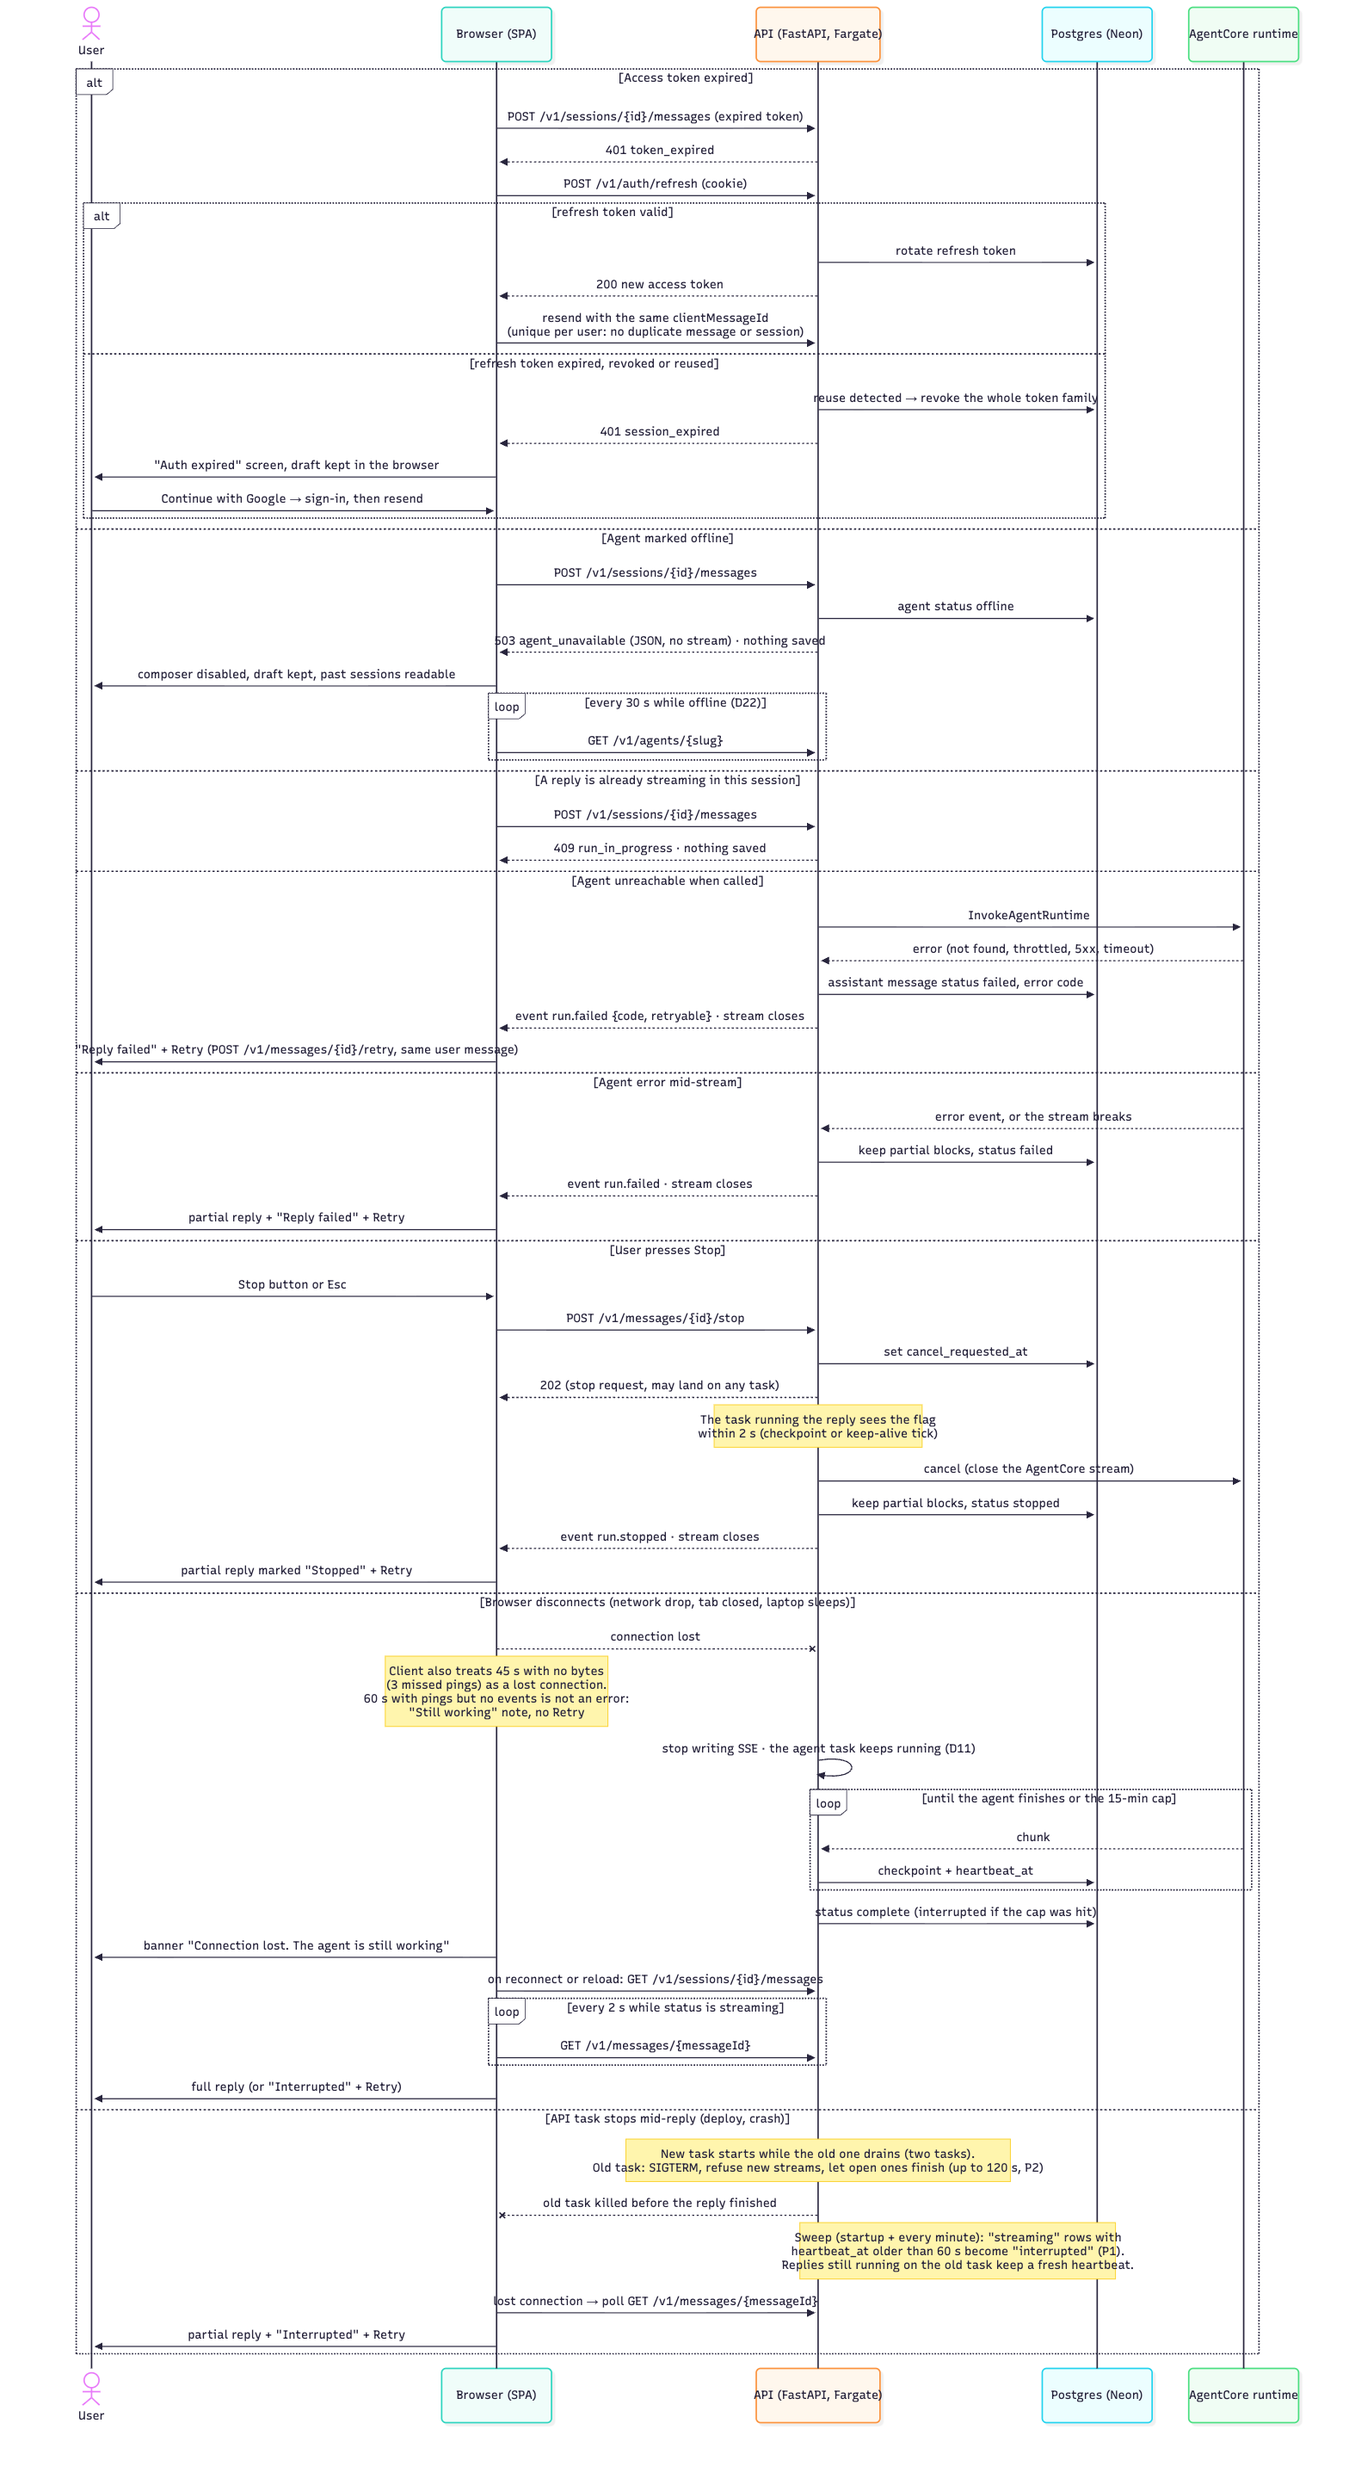
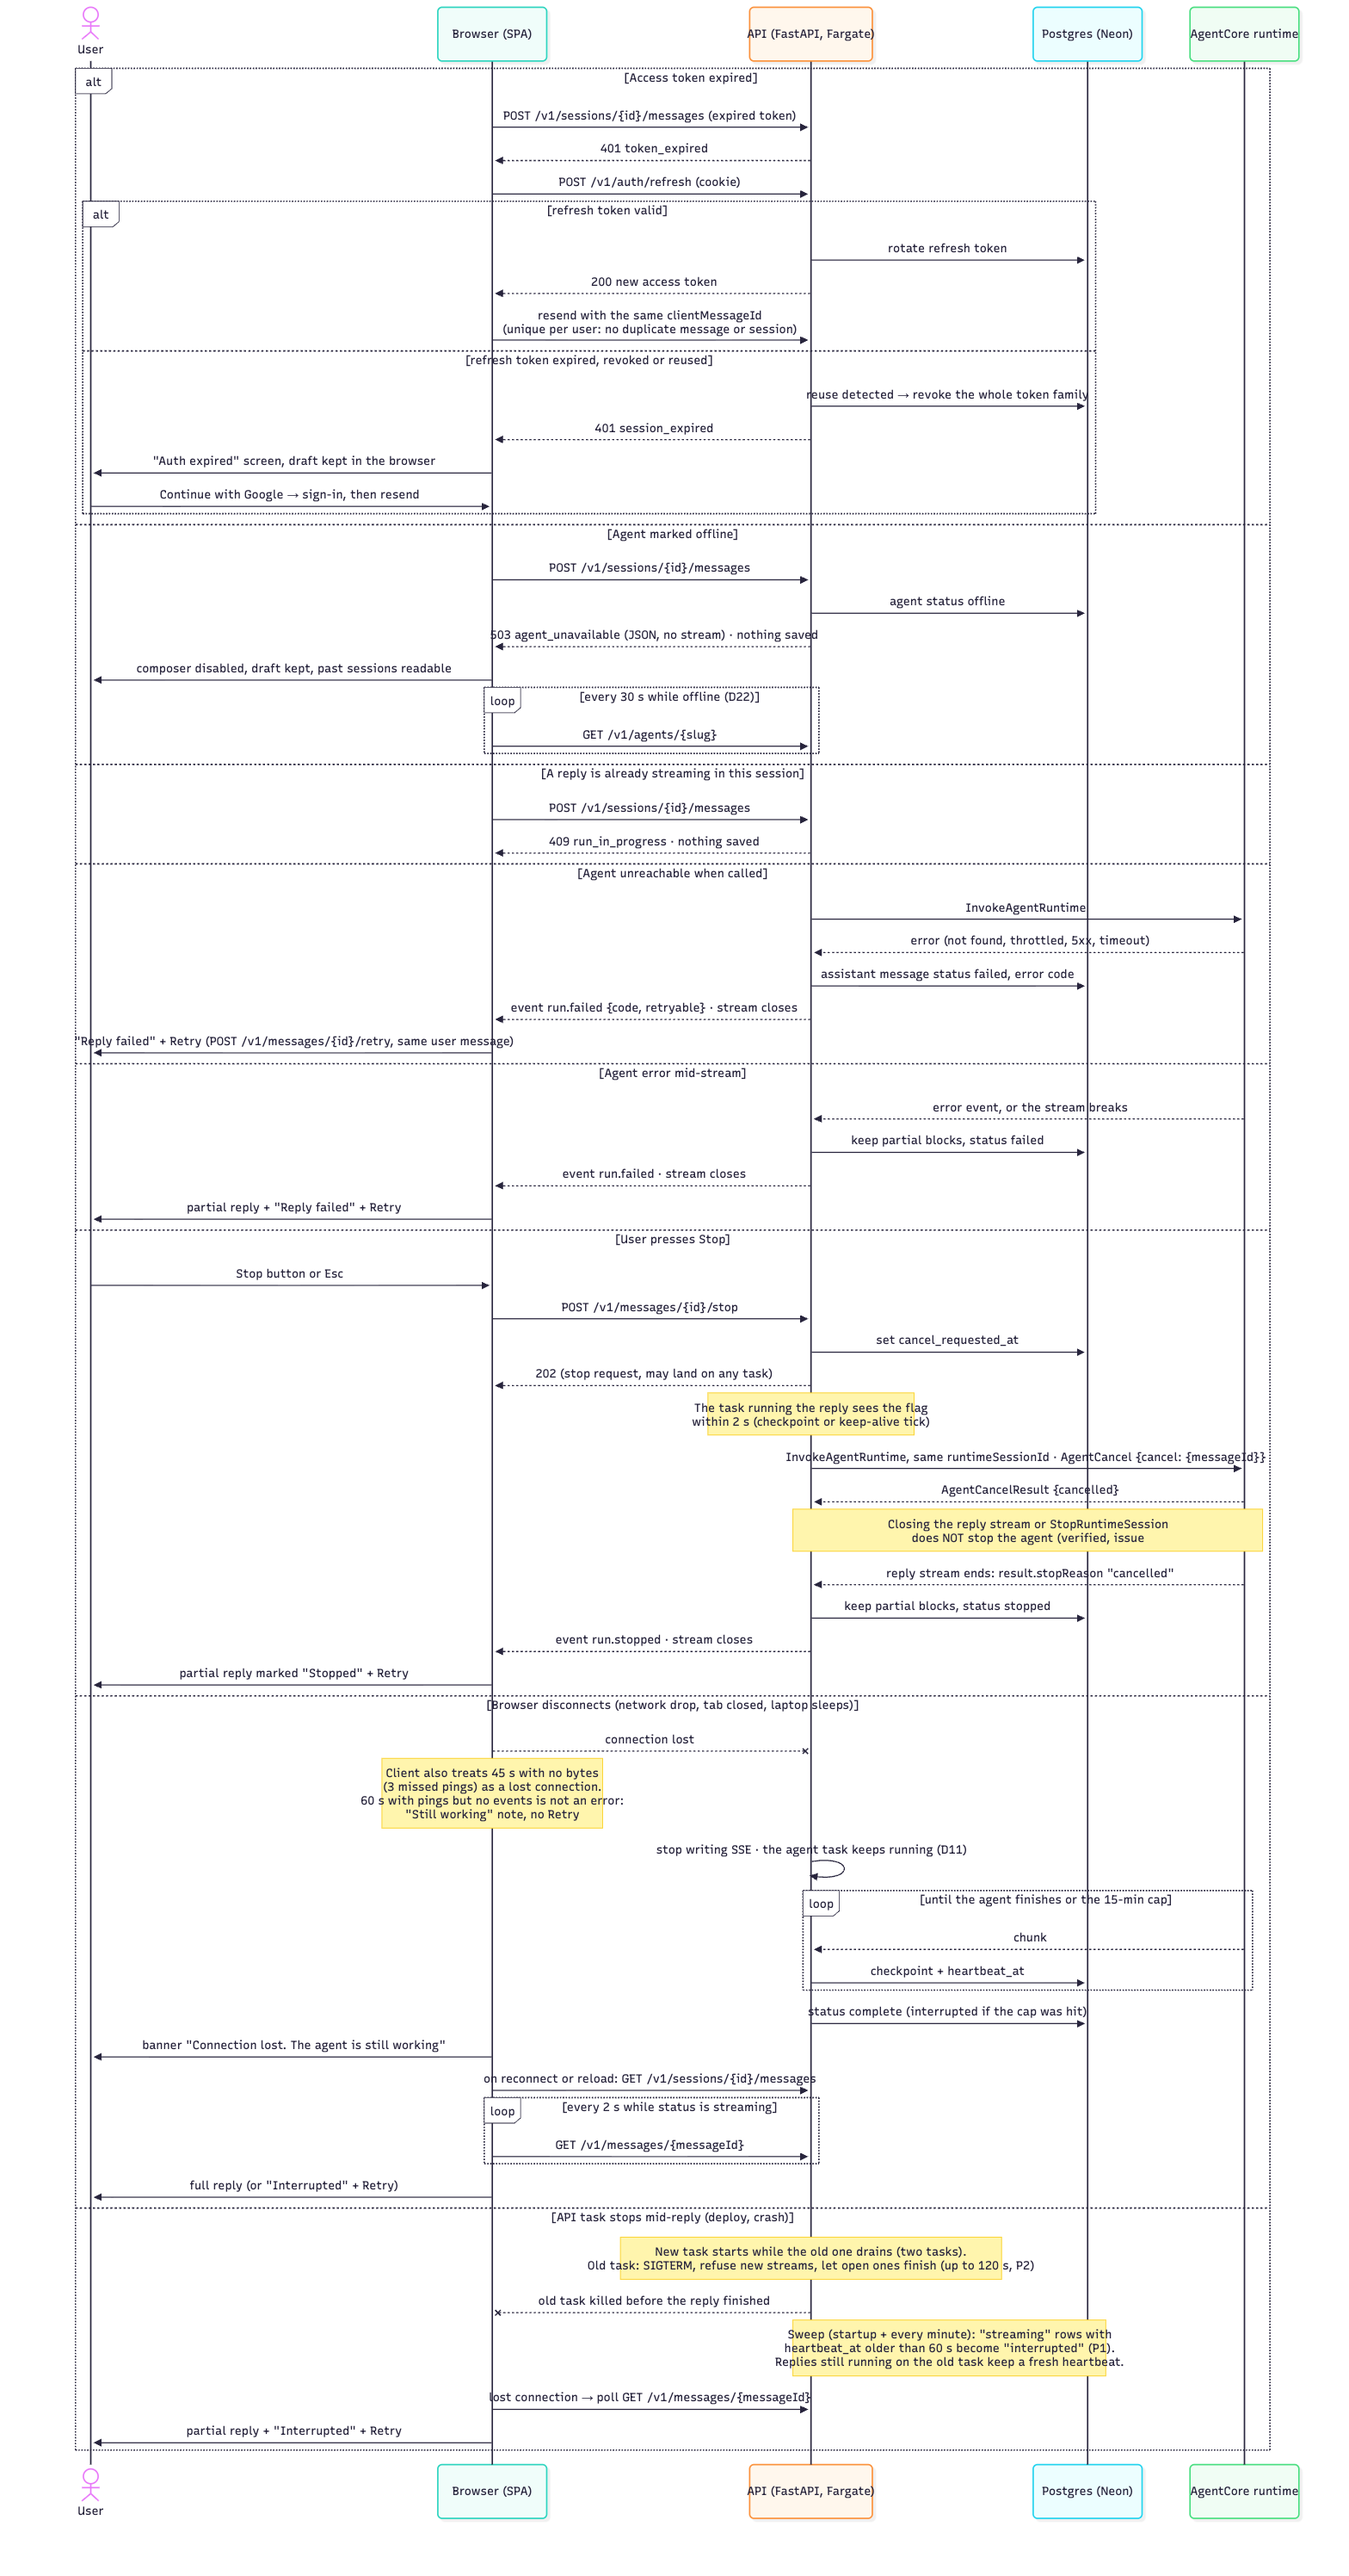
Describe Stop as a cancel invocation in P4 and the failure diagram
The failures diagram still showed Stop as closing the AgentCore stream,
which issue #3 showed doesn't stop the agent. It now sends AgentCancel
on the same runtime session and waits for stopReason "cancelled"; P4
names the mechanism.

diff --git a/docs/ARCHITECTURE.md b/docs/ARCHITECTURE.md
@@ -203,7 +203,7 @@ These refine D1–D15 and are binding for the steps that follow.
 
 **P3. v1 has no stream resume; reload is the recovery.** `PRODUCT_PLAN.md` F08 mentions resuming from `Last-Event-ID`. With one task and no event buffer that isn't cheap. Proposal: events carry ids from day one (so resume can be added later), but in v1 a dropped stream means the client reloads the message from Postgres. Because the agent keeps running after a disconnect (D11), the client polls the message until its status leaves `streaming`, then renders it; Retry is offered for `stopped`, `failed` and `interrupted` (amended 2026-09-29; the design and `SEND_MESSAGE.md` table already allowed Retry after Stop). There is no "agent silent for 60 s" error: a long silence shows a soft "still working" note, because the run may well finish.
 
-**P4. Stop is an explicit request, not just a closed connection.** The client can't distinguish its own abort from a network drop, and neither can the server. Proposal: `POST /v1/messages/{id}/stop` (the run id is the assistant message id) cancels the agent call and saves `stopped`; the client also aborts the fetch. A plain disconnect does not cancel (D11). The stop request sets `messages.cancel_requested_at`; the task running the reply checks it at each checkpoint (≤ 2 s) and on the keep-alive tick, so Stop works whichever task receives it (amended 2026-09-29: rolling deploys already run two tasks).
+**P4. Stop is an explicit request, not just a closed connection.** The client can't distinguish its own abort from a network drop, and neither can the server. Proposal: `POST /v1/messages/{id}/stop` (the run id is the assistant message id) cancels the agent call and saves `stopped`; the client also aborts the fetch. A plain disconnect does not cancel (D11). The stop request sets `messages.cancel_requested_at`; the task running the reply checks it at each checkpoint (≤ 2 s) and on the keep-alive tick, so Stop works whichever task receives it (amended 2026-09-29: rolling deploys already run two tasks). That task then stops the agent with an `AgentCancel` invocation on **the same runtime session** (`{"cancel": {"messageId"}}`); the reply ends with `stopReason: "cancelled"`. Closing the response stream or `StopRuntimeSession` does not stop the agent (verified on AgentCore, amended 2026-09-30, issue #3).
 
 **P5. Extend the closed block set** to include `plan` and `status/error` now (P0 screens use them), and reserve `citation`, `chart`, `image`, `file`, `form` for P1 (D10).
 
